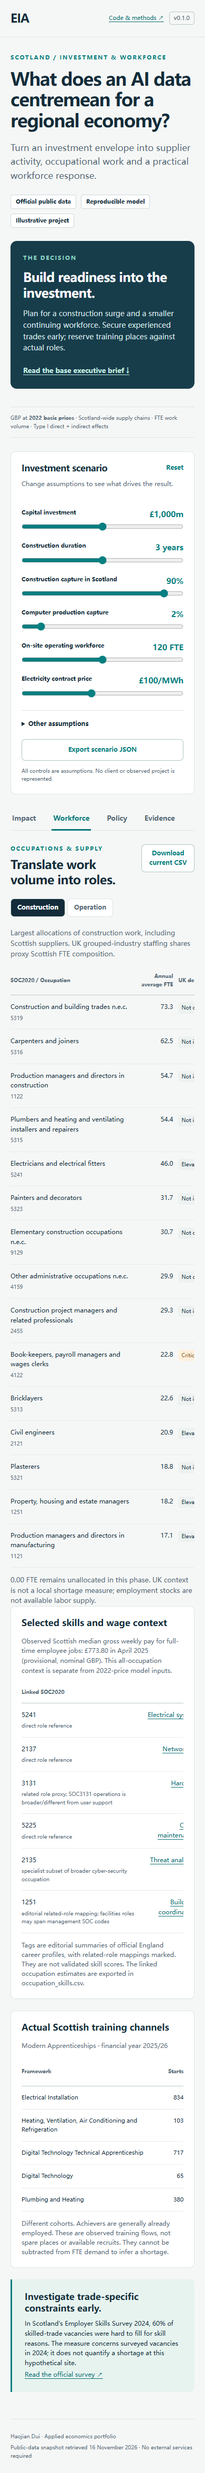
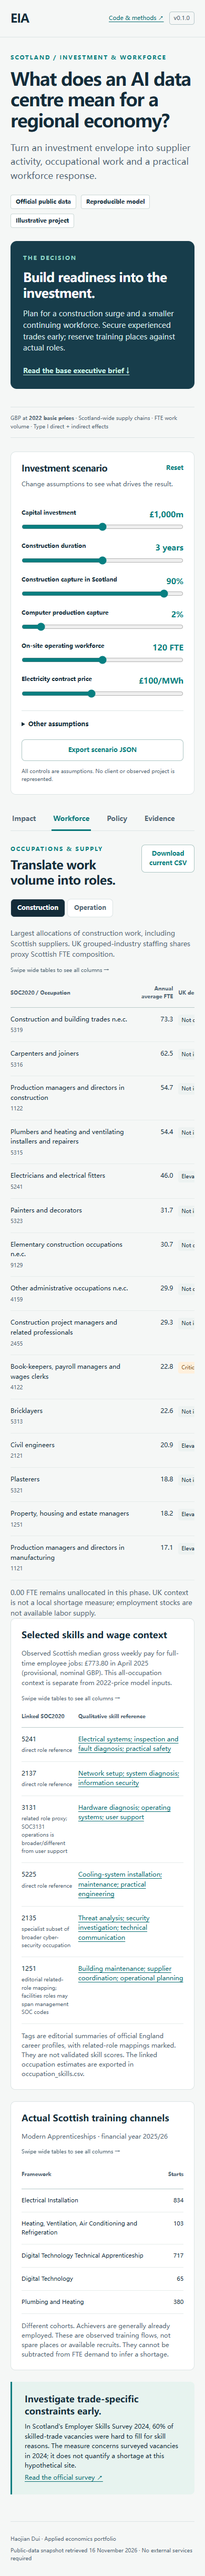
Improve mobile heading spacing and table readability

Changed region(s): [[0.0308, 0.0, 0.9538, 0.9628], [0.8308, 0.8385, 0.8923, 0.9007], [0.8, 0.4969, 0.8308, 0.528]]

diff --git a/site/index.html b/site/index.html
@@ -4,7 +4,7 @@
 <a class="skip" href="#main">Skip to assessment</a>
 <header><a class="brand" href="#">EIA<span>Economic Impact Assessment</span></a><div class="header-links"><a href="https://github.com/JoeDHJ/economic-impact-assessment">Code & methods ↗</a><span class="version">v0.1.0</span></div></header>
 <main id="main">
-<section class="hero"><div><p class="eyebrow">SCOTLAND / INVESTMENT & WORKFORCE</p><h1>What does an AI data centre<br>mean for a regional economy?</h1><p class="intro">Turn an investment envelope into supplier activity, occupational work and a practical workforce response.</p><div class="badges"><span>Official public data</span><span>Reproducible model</span><span>Illustrative project</span></div></div><aside class="hero-note"><p class="eyebrow">THE DECISION</p><h2>Build readiness into the investment.</h2><p>Plan for a construction surge and a smaller continuing workforce. Secure experienced trades early; reserve training places against actual roles.</p><a href="reports/executive-brief.md" download>Read the base executive brief ↓</a></aside></section>
+<section class="hero"><div><p class="eyebrow">SCOTLAND / INVESTMENT & WORKFORCE</p><h1>What does an AI data centre <br>mean for a regional economy?</h1><p class="intro">Turn an investment envelope into supplier activity, occupational work and a practical workforce response.</p><div class="badges"><span>Official public data</span><span>Reproducible model</span><span>Illustrative project</span></div></div><aside class="hero-note"><p class="eyebrow">THE DECISION</p><h2>Build readiness into the investment.</h2><p>Plan for a construction surge and a smaller continuing workforce. Secure experienced trades early; reserve training places against actual roles.</p><a href="reports/executive-brief.md" download>Read the base executive brief ↓</a></aside></section>
 <div class="context">GBP at <strong>2022 basic prices</strong> · Scotland-wide supply chains · FTE work volume · Type I direct + indirect effects</div>
 <div class="layout"><aside class="controls"><div class="control-head"><h2>Investment scenario</h2><button id="reset" class="text-button">Reset</button></div><p>Change assumptions to see what drives the result.</p>
 <label for="capital">Capital investment <output id="capital-value"></output></label><input id="capital" type="range" min="0" max="2000" step="50" value="1000">
@@ -21,7 +21,7 @@
 <article class="panel"><div class="panel-heading"><h3>Employment over the delivery schedule</h3><span>Annual FTE · even construction spend</span></div><div id="timeline"></div><p class="chart-note">Job-years measure cumulative work. They do not count unique people. Operating years begin after construction; the annual workforce is not added to build job-years.</p></article>
 <div class="two-panels"><article class="panel"><h3>Construction activity</h3><div id="effects"></div><p class="chart-note">Direct + indirect totals already include direct effects. GVA is a component of output.</p></article><article class="panel"><h3>Where construction work lands</h3><div id="industries"></div><p class="chart-note">FTE job-years by Scottish industry. Whole-region effects do not locate work around one site.</p></article></div>
 <article class="callout"><h3>A gross activity model is one part of an appraisal.</h3><p>The estimates do not deduct displacement, opportunity cost or resource constraints. Net welfare, tax return, water, grid and carbon effects need a separate assessment. Household-induced effects are excluded.</p></article><div class="actions"><button id="export-brief">Download current brief</button><a href="reports/economic-impact-report.md" download>Full base-case report ↓</a></div></section>
-<section id="workforce" class="view" aria-labelledby="tab-workforce" hidden><div class="section-title"><div><p class="eyebrow">OCCUPATIONS & SUPPLY</p><h2>Translate work volume into roles.</h2></div><button id="export-occupations" class="secondary">Download current CSV</button></div><div class="segmented"><button class="active" data-phase="construction">Construction</button><button data-phase="operation">Operation</button></div><p id="occupation-note"></p><div class="table-wrap"><table><caption class="sr-only">Largest occupational demand</caption><thead><tr><th>SOC2020 / Occupation</th><th id="occupation-unit">Annual average FTE</th><th>UK demand context, 2025</th></tr></thead><tbody id="occupations"></tbody></table></div><p class="chart-note" id="coverage"></p><article class="panel"><h3>Selected skills and wage context</h3><p id="wage-reference"></p><div class="table-wrap"><table><thead><tr><th>Linked SOC2020</th><th>Qualitative skill reference</th></tr></thead><tbody id="skill-references"></tbody></table></div><p class="chart-note">Tags are editorial summaries of official England career profiles, with related-role mappings marked. They are not validated skill scores. The linked occupation estimates are exported in occupation_skills.csv.</p></article><article class="panel"><h3>Actual Scottish training channels</h3><p>Modern Apprenticeships · financial year 2025/26</p><div class="table-wrap"><table><thead><tr><th>Framework</th><th>Starts</th><th>In training</th><th>Achievements</th></tr></thead><tbody id="supply"></tbody></table></div><p class="chart-note">Different cohorts. Achievers are generally already employed. These are observed training flows, not spare places or available recruits. They cannot be subtracted from FTE demand to infer a shortage.</p></article><article class="callout"><h3>Investigate trade-specific constraints early.</h3><p>In Scotland's Employer Skills Survey 2024, 60% of skilled-trade vacancies were hard to fill for skill reasons. The measure concerns surveyed vacancies in 2024; it does not quantify a shortage at this hypothetical site.</p><a href="https://www.gov.scot/publications/employer-skills-survey-2024-scotland/pages/skill-shortage-vacancies/">Read the official survey ↗</a></article></section>
+<section id="workforce" class="view" aria-labelledby="tab-workforce" hidden><div class="section-title"><div><p class="eyebrow">OCCUPATIONS & SUPPLY</p><h2>Translate work volume into roles.</h2></div><button id="export-occupations" class="secondary">Download current CSV</button></div><div class="segmented"><button class="active" data-phase="construction">Construction</button><button data-phase="operation">Operation</button></div><p id="occupation-note"></p><div class="table-wrap"><table><caption class="sr-only">Largest occupational demand</caption><thead><tr><th>SOC2020 / Occupation</th><th id="occupation-unit">Annual average FTE</th><th>UK demand context, 2025</th></tr></thead><tbody id="occupations"></tbody></table></div><p class="chart-note" id="coverage"></p><article class="panel"><h3>Selected skills and wage context</h3><p id="wage-reference"></p><div class="table-wrap"><table class="skills-table"><thead><tr><th>Linked SOC2020</th><th>Qualitative skill reference</th></tr></thead><tbody id="skill-references"></tbody></table></div><p class="chart-note">Tags are editorial summaries of official England career profiles, with related-role mappings marked. They are not validated skill scores. The linked occupation estimates are exported in occupation_skills.csv.</p></article><article class="panel"><h3>Actual Scottish training channels</h3><p>Modern Apprenticeships · financial year 2025/26</p><div class="table-wrap"><table><thead><tr><th>Framework</th><th>Starts</th><th>In training</th><th>Achievements</th></tr></thead><tbody id="supply"></tbody></table></div><p class="chart-note">Different cohorts. Achievers are generally already employed. These are observed training flows, not spare places or available recruits. They cannot be subtracted from FTE demand to infer a shortage.</p></article><article class="callout"><h3>Investigate trade-specific constraints early.</h3><p>In Scotland's Employer Skills Survey 2024, 60% of skilled-trade vacancies were hard to fill for skill reasons. The measure concerns surveyed vacancies in 2024; it does not quantify a shortage at this hypothetical site.</p><a href="https://www.gov.scot/publications/employer-skills-survey-2024-scotland/pages/skill-shortage-vacancies/">Read the official survey ↗</a></article></section>
 <section id="policy" class="view" aria-labelledby="tab-policy" hidden><div class="section-title"><div><p class="eyebrow">DELIVERY OPTIONS</p><h2>Match the response to the deadline.</h2></div></div><p>Independent option scenarios target on-site roles. Costs, seats and project match rates are assumptions; the electrical completion input uses the published achievement/leaver ratio.</p><div id="policies"></div><article class="callout"><h3>Reserve capacity before commissioning.</h3><p>Confirm eligible workers, provider seats, competing projects and shift requirements. The options overlap in target roles and cannot be summed into a combined jobs claim. A training match is not a net additional job or a measured policy effect.</p></article><a href="https://github.com/JoeDHJ/economic-impact-assessment/blob/main/docs/policy-and-supply.md">Policy design and implementation gates ↗</a></section>
 <section id="evidence" class="view" aria-labelledby="tab-evidence" hidden><div class="section-title"><div><p class="eyebrow">DATA & METHODS</p><h2>Inspect the chain from source to decision.</h2></div></div><div class="evidence-grid"><article class="panel"><span class="tag">Official estimates</span><h3>Scottish input-output accounts</h3><p>2022 domestic industry-by-industry table, 98 industries; published December 2025. Rows supply, columns purchase. Imports are excluded from domestic coefficients.</p><a href="https://www.gov.scot/publications/input-output-latest/">Source tables ↗</a></article><article class="panel"><span class="tag">Transferred staffing proxy</span><h3>UK occupation × industry</h3><p>Skills England 2025: SOC2020 workers in 18 broad SIC groups. Shares proxy Scottish FTE composition. Detailed industry and local differences remain unresolved.</p><a href="https://explore-education-statistics.service.gov.uk/find-statistics/occupations-in-demand/2025/explore">Staffing source ↗</a></article><article class="panel"><span class="tag">Observed counts</span><h3>Scottish training and skills</h3><p>SDS 2025/26 framework starts, training and achievements; Scottish Employer Skills Survey 2024 recruitment constraints. Provider spare capacity is not observed.</p><a href="https://www.skillsdevelopmentscotland.co.uk/media/josfrdus/modern-apprenticeship-supplementary-tables-quarter-4-2025-26.xlsx">Administrative tables ↗</a></article><article class="panel"><span class="tag">Scenario inputs</span><h3>Investment and operating plan</h3><p>Budget, production capture, duration, power use, on-site jobs and policy costs are explicit assumptions. No future nominal budget is mixed into 2022 prices.</p><button id="export-scenario-2" class="text-button">Download complete inputs ↓</button></article></div><article class="panel"><h3>Validated accounting</h3><p id="validation"></p><p class="formula">x = (I − A)<sup>−1</sup> f &nbsp; · &nbsp; FTE = e′x</p><p>The official Leontief inverse is stored multiplied by 1,000. Direct FTE coefficients are recovered from employment effects divided by employment multipliers. A zero-output tobacco sector has zero transactions and zero coefficients.</p><p>Operating purchases generate supplier activity; 120 base on-site FTE are a separate staffing input. The centre's own output is never multiplied and then added again.</p></article><div class="actions"><a class="button" href="https://github.com/JoeDHJ/economic-impact-assessment#reproduce-the-case">Run independently ↗</a><a href="https://github.com/JoeDHJ/economic-impact-assessment/blob/main/docs/employer-evidence.md">Employer requirements → artifacts ↗</a></div></section>
 </div></div>

diff --git a/src/impact_assessment/web/index.html b/src/impact_assessment/web/index.html
@@ -4,7 +4,7 @@
 <a class="skip" href="#main">Skip to assessment</a>
 <header><a class="brand" href="#">EIA<span>Economic Impact Assessment</span></a><div class="header-links"><a href="https://github.com/JoeDHJ/economic-impact-assessment">Code & methods ↗</a><span class="version">v0.1.0</span></div></header>
 <main id="main">
-<section class="hero"><div><p class="eyebrow">SCOTLAND / INVESTMENT & WORKFORCE</p><h1>What does an AI data centre<br>mean for a regional economy?</h1><p class="intro">Turn an investment envelope into supplier activity, occupational work and a practical workforce response.</p><div class="badges"><span>Official public data</span><span>Reproducible model</span><span>Illustrative project</span></div></div><aside class="hero-note"><p class="eyebrow">THE DECISION</p><h2>Build readiness into the investment.</h2><p>Plan for a construction surge and a smaller continuing workforce. Secure experienced trades early; reserve training places against actual roles.</p><a href="reports/executive-brief.md" download>Read the base executive brief ↓</a></aside></section>
+<section class="hero"><div><p class="eyebrow">SCOTLAND / INVESTMENT & WORKFORCE</p><h1>What does an AI data centre <br>mean for a regional economy?</h1><p class="intro">Turn an investment envelope into supplier activity, occupational work and a practical workforce response.</p><div class="badges"><span>Official public data</span><span>Reproducible model</span><span>Illustrative project</span></div></div><aside class="hero-note"><p class="eyebrow">THE DECISION</p><h2>Build readiness into the investment.</h2><p>Plan for a construction surge and a smaller continuing workforce. Secure experienced trades early; reserve training places against actual roles.</p><a href="reports/executive-brief.md" download>Read the base executive brief ↓</a></aside></section>
 <div class="context">GBP at <strong>2022 basic prices</strong> · Scotland-wide supply chains · FTE work volume · Type I direct + indirect effects</div>
 <div class="layout"><aside class="controls"><div class="control-head"><h2>Investment scenario</h2><button id="reset" class="text-button">Reset</button></div><p>Change assumptions to see what drives the result.</p>
 <label for="capital">Capital investment <output id="capital-value"></output></label><input id="capital" type="range" min="0" max="2000" step="50" value="1000">
@@ -21,7 +21,7 @@
 <article class="panel"><div class="panel-heading"><h3>Employment over the delivery schedule</h3><span>Annual FTE · even construction spend</span></div><div id="timeline"></div><p class="chart-note">Job-years measure cumulative work. They do not count unique people. Operating years begin after construction; the annual workforce is not added to build job-years.</p></article>
 <div class="two-panels"><article class="panel"><h3>Construction activity</h3><div id="effects"></div><p class="chart-note">Direct + indirect totals already include direct effects. GVA is a component of output.</p></article><article class="panel"><h3>Where construction work lands</h3><div id="industries"></div><p class="chart-note">FTE job-years by Scottish industry. Whole-region effects do not locate work around one site.</p></article></div>
 <article class="callout"><h3>A gross activity model is one part of an appraisal.</h3><p>The estimates do not deduct displacement, opportunity cost or resource constraints. Net welfare, tax return, water, grid and carbon effects need a separate assessment. Household-induced effects are excluded.</p></article><div class="actions"><button id="export-brief">Download current brief</button><a href="reports/economic-impact-report.md" download>Full base-case report ↓</a></div></section>
-<section id="workforce" class="view" aria-labelledby="tab-workforce" hidden><div class="section-title"><div><p class="eyebrow">OCCUPATIONS & SUPPLY</p><h2>Translate work volume into roles.</h2></div><button id="export-occupations" class="secondary">Download current CSV</button></div><div class="segmented"><button class="active" data-phase="construction">Construction</button><button data-phase="operation">Operation</button></div><p id="occupation-note"></p><div class="table-wrap"><table><caption class="sr-only">Largest occupational demand</caption><thead><tr><th>SOC2020 / Occupation</th><th id="occupation-unit">Annual average FTE</th><th>UK demand context, 2025</th></tr></thead><tbody id="occupations"></tbody></table></div><p class="chart-note" id="coverage"></p><article class="panel"><h3>Selected skills and wage context</h3><p id="wage-reference"></p><div class="table-wrap"><table><thead><tr><th>Linked SOC2020</th><th>Qualitative skill reference</th></tr></thead><tbody id="skill-references"></tbody></table></div><p class="chart-note">Tags are editorial summaries of official England career profiles, with related-role mappings marked. They are not validated skill scores. The linked occupation estimates are exported in occupation_skills.csv.</p></article><article class="panel"><h3>Actual Scottish training channels</h3><p>Modern Apprenticeships · financial year 2025/26</p><div class="table-wrap"><table><thead><tr><th>Framework</th><th>Starts</th><th>In training</th><th>Achievements</th></tr></thead><tbody id="supply"></tbody></table></div><p class="chart-note">Different cohorts. Achievers are generally already employed. These are observed training flows, not spare places or available recruits. They cannot be subtracted from FTE demand to infer a shortage.</p></article><article class="callout"><h3>Investigate trade-specific constraints early.</h3><p>In Scotland's Employer Skills Survey 2024, 60% of skilled-trade vacancies were hard to fill for skill reasons. The measure concerns surveyed vacancies in 2024; it does not quantify a shortage at this hypothetical site.</p><a href="https://www.gov.scot/publications/employer-skills-survey-2024-scotland/pages/skill-shortage-vacancies/">Read the official survey ↗</a></article></section>
+<section id="workforce" class="view" aria-labelledby="tab-workforce" hidden><div class="section-title"><div><p class="eyebrow">OCCUPATIONS & SUPPLY</p><h2>Translate work volume into roles.</h2></div><button id="export-occupations" class="secondary">Download current CSV</button></div><div class="segmented"><button class="active" data-phase="construction">Construction</button><button data-phase="operation">Operation</button></div><p id="occupation-note"></p><div class="table-wrap"><table><caption class="sr-only">Largest occupational demand</caption><thead><tr><th>SOC2020 / Occupation</th><th id="occupation-unit">Annual average FTE</th><th>UK demand context, 2025</th></tr></thead><tbody id="occupations"></tbody></table></div><p class="chart-note" id="coverage"></p><article class="panel"><h3>Selected skills and wage context</h3><p id="wage-reference"></p><div class="table-wrap"><table class="skills-table"><thead><tr><th>Linked SOC2020</th><th>Qualitative skill reference</th></tr></thead><tbody id="skill-references"></tbody></table></div><p class="chart-note">Tags are editorial summaries of official England career profiles, with related-role mappings marked. They are not validated skill scores. The linked occupation estimates are exported in occupation_skills.csv.</p></article><article class="panel"><h3>Actual Scottish training channels</h3><p>Modern Apprenticeships · financial year 2025/26</p><div class="table-wrap"><table><thead><tr><th>Framework</th><th>Starts</th><th>In training</th><th>Achievements</th></tr></thead><tbody id="supply"></tbody></table></div><p class="chart-note">Different cohorts. Achievers are generally already employed. These are observed training flows, not spare places or available recruits. They cannot be subtracted from FTE demand to infer a shortage.</p></article><article class="callout"><h3>Investigate trade-specific constraints early.</h3><p>In Scotland's Employer Skills Survey 2024, 60% of skilled-trade vacancies were hard to fill for skill reasons. The measure concerns surveyed vacancies in 2024; it does not quantify a shortage at this hypothetical site.</p><a href="https://www.gov.scot/publications/employer-skills-survey-2024-scotland/pages/skill-shortage-vacancies/">Read the official survey ↗</a></article></section>
 <section id="policy" class="view" aria-labelledby="tab-policy" hidden><div class="section-title"><div><p class="eyebrow">DELIVERY OPTIONS</p><h2>Match the response to the deadline.</h2></div></div><p>Independent option scenarios target on-site roles. Costs, seats and project match rates are assumptions; the electrical completion input uses the published achievement/leaver ratio.</p><div id="policies"></div><article class="callout"><h3>Reserve capacity before commissioning.</h3><p>Confirm eligible workers, provider seats, competing projects and shift requirements. The options overlap in target roles and cannot be summed into a combined jobs claim. A training match is not a net additional job or a measured policy effect.</p></article><a href="https://github.com/JoeDHJ/economic-impact-assessment/blob/main/docs/policy-and-supply.md">Policy design and implementation gates ↗</a></section>
 <section id="evidence" class="view" aria-labelledby="tab-evidence" hidden><div class="section-title"><div><p class="eyebrow">DATA & METHODS</p><h2>Inspect the chain from source to decision.</h2></div></div><div class="evidence-grid"><article class="panel"><span class="tag">Official estimates</span><h3>Scottish input-output accounts</h3><p>2022 domestic industry-by-industry table, 98 industries; published December 2025. Rows supply, columns purchase. Imports are excluded from domestic coefficients.</p><a href="https://www.gov.scot/publications/input-output-latest/">Source tables ↗</a></article><article class="panel"><span class="tag">Transferred staffing proxy</span><h3>UK occupation × industry</h3><p>Skills England 2025: SOC2020 workers in 18 broad SIC groups. Shares proxy Scottish FTE composition. Detailed industry and local differences remain unresolved.</p><a href="https://explore-education-statistics.service.gov.uk/find-statistics/occupations-in-demand/2025/explore">Staffing source ↗</a></article><article class="panel"><span class="tag">Observed counts</span><h3>Scottish training and skills</h3><p>SDS 2025/26 framework starts, training and achievements; Scottish Employer Skills Survey 2024 recruitment constraints. Provider spare capacity is not observed.</p><a href="https://www.skillsdevelopmentscotland.co.uk/media/josfrdus/modern-apprenticeship-supplementary-tables-quarter-4-2025-26.xlsx">Administrative tables ↗</a></article><article class="panel"><span class="tag">Scenario inputs</span><h3>Investment and operating plan</h3><p>Budget, production capture, duration, power use, on-site jobs and policy costs are explicit assumptions. No future nominal budget is mixed into 2022 prices.</p><button id="export-scenario-2" class="text-button">Download complete inputs ↓</button></article></div><article class="panel"><h3>Validated accounting</h3><p id="validation"></p><p class="formula">x = (I − A)<sup>−1</sup> f &nbsp; · &nbsp; FTE = e′x</p><p>The official Leontief inverse is stored multiplied by 1,000. Direct FTE coefficients are recovered from employment effects divided by employment multipliers. A zero-output tobacco sector has zero transactions and zero coefficients.</p><p>Operating purchases generate supplier activity; 120 base on-site FTE are a separate staffing input. The centre's own output is never multiplied and then added again.</p></article><div class="actions"><a class="button" href="https://github.com/JoeDHJ/economic-impact-assessment#reproduce-the-case">Run independently ↗</a><a href="https://github.com/JoeDHJ/economic-impact-assessment/blob/main/docs/employer-evidence.md">Employer requirements → artifacts ↗</a></div></section>
 </div></div>

diff --git a/site/style.css b/site/style.css
@@ -1,3 +1,5 @@
 :root{--ink:#142c39;--muted:#526774;--line:#dce4e5;--paper:#f5f7f6;--teal:#087f81;--blue:#315f83;--pale:#e7f3ef;--amber:#a26322}*{box-sizing:border-box}body{margin:0;background:var(--paper);color:var(--ink);font:15px/1.55 system-ui,-apple-system,"Segoe UI",sans-serif}a{color:#086d72;text-underline-offset:3px}button,input{font:inherit}button,a{touch-action:manipulation}button{cursor:pointer;border:1px solid var(--teal);background:var(--teal);color:white;border-radius:7px;padding:10px 16px;font-weight:650}button:hover{filter:brightness(.94)}button:focus-visible,a:focus-visible,input:focus-visible,summary:focus-visible{outline:3px solid #c17a2c;outline-offset:3px}header{max-width:1440px;margin:auto;padding:23px 40px;display:flex;align-items:center;justify-content:space-between;border-bottom:1px solid var(--line)}.brand{font-size:23px;font-weight:850;letter-spacing:-1px;text-decoration:none;color:var(--ink);display:flex;align-items:center;gap:16px}.brand span{font-size:13px;letter-spacing:.1px;font-weight:600;padding-left:16px;border-left:1px solid #b8c8cd}.header-links{display:flex;gap:20px;align-items:center;font-size:13px}.version{border:1px solid #b7c8ca;padding:3px 8px;border-radius:5px;color:var(--muted)}main{max-width:1440px;margin:auto;padding:0 40px}.hero{padding:48px 0 34px;display:grid;grid-template-columns:1.6fr 1fr;gap:64px}.eyebrow{font-size:11px;letter-spacing:1.8px;font-weight:750;color:var(--teal);margin:0 0 13px}h1{font-size:clamp(28px,3vw,43px);line-height:1.17;letter-spacing:-1.3px;margin:0 0 18px}h2{font-size:24px;line-height:1.25;letter-spacing:-.5px;margin:0 0 12px}h3{font-size:17px;line-height:1.35;margin:0 0 14px}.intro{color:var(--muted);font-size:17px;max-width:620px;margin:0}.badges{display:flex;gap:9px;flex-wrap:wrap;margin-top:23px}.badges span{font-size:11px;font-weight:650;border:1px solid #ccd9d7;background:white;padding:4px 9px;border-radius:4px}.hero-note{background:#173d4b;color:#fff;border-radius:12px;padding:27px 30px;align-self:start}.hero-note .eyebrow{color:#8ed2c4}.hero-note h2{font-size:24px;max-width:330px}.hero-note p:not(.eyebrow){font-size:14px;color:#d5e6e8;margin-bottom:19px}.hero-note a{color:#c5eee4;font-size:13px;font-weight:650}.context{padding:13px 0;border-top:1px solid var(--line);border-bottom:1px solid var(--line);color:var(--muted);font-size:12px}.layout{display:grid;grid-template-columns:276px minmax(0,1fr);gap:30px;padding-top:26px;align-items:start}.controls{background:#fff;border:1px solid var(--line);padding:22px;border-radius:10px;position:sticky;top:16px}.control-head{display:flex;justify-content:space-between;align-items:center;gap:8px}.control-head h2{font-size:17px;margin:0}.controls p{font-size:12px;color:var(--muted);margin:11px 0 20px}.text-button{border:0;background:none;color:var(--teal);padding:0;font-size:12px}.controls label{display:block;font-size:11px;font-weight:650;margin-top:22px}.controls output{display:block;color:var(--teal);font-size:18px;font-weight:750;margin:4px 0}.controls input{width:100%;accent-color:var(--teal);height:24px;cursor:pointer;margin:0}.controls details{font-size:12px;margin-top:20px;border-top:1px solid var(--line);padding-top:16px}.controls details p{margin:10px 0}.controls summary{font-weight:650;cursor:pointer}.controls small{display:block;color:var(--muted);font-size:10px;margin-top:12px}.controls .secondary{width:100%;font-size:12px;margin-top:20px}.secondary{background:#fff;color:var(--teal);font-size:12px;border-color:#adc6c4}.tabs{display:flex;border-bottom:1px solid var(--line);gap:25px;margin-bottom:26px}.tabs button{border:0;border-radius:0;padding:10px 3px 13px;background:none;color:var(--muted);font-size:13px;position:relative}.tabs button.active{color:var(--teal)}.tabs .active:after{content:"";position:absolute;height:3px;background:var(--teal);bottom:-1px;left:0;right:0}.section-title{display:flex;justify-content:space-between;align-items:center;gap:20px;margin-bottom:21px}.section-title .eyebrow{margin-bottom:8px}.section-title h2{margin:0;font-size:25px}.live{color:var(--teal);font-size:10px;white-space:nowrap}.metrics{display:grid;grid-template-columns:repeat(3,minmax(0,1fr));gap:13px;margin-bottom:23px}.metrics article{padding:20px 17px;border:1px solid var(--line);border-radius:8px;background:#fff;min-height:166px}.metrics span{font-size:11px;font-weight:650;color:var(--muted)}.metrics strong{display:block;font-size:35px;line-height:1.2;letter-spacing:-1px;margin:11px 0 7px}.metrics p{font-size:11px;margin:0 0 6px}.metrics small{font-size:10px;color:var(--muted)}.panel{background:#fff;border:1px solid var(--line);border-radius:9px;padding:23px;margin-bottom:22px}.panel-heading{display:flex;align-items:start;justify-content:space-between;gap:15px}.panel-heading span{font-size:10px;color:var(--muted)}.chart-note{font-size:11px;line-height:1.5;color:var(--muted);margin:14px 0 0}.two-panels{display:grid;grid-template-columns:1fr 1fr;gap:20px}.callout{border-left:3px solid var(--teal);background:var(--pale);padding:22px 24px;margin-bottom:25px;border-radius:0 8px 8px 0}.callout h3{margin-bottom:8px}.callout p,.callout a{font-size:12px;margin:0}.actions{display:flex;align-items:center;gap:25px;flex-wrap:wrap;margin:12px 0 30px}.actions a{font-size:12px;font-weight:650}.button{background:var(--teal);color:white;border-radius:7px;padding:11px 18px;text-decoration:none}.timeline{height:200px;display:flex;gap:8px;align-items:end;padding-top:25px;border-bottom:1px solid var(--line)}.time-col{flex:1;min-width:0;height:100%;display:flex;flex-direction:column;justify-content:end;align-items:center;position:relative}.time-bar{width:80%;max-width:48px;background:var(--teal);border-radius:4px 4px 0 0;min-height:1px;position:relative}.time-bar.build{background:var(--blue)}.time-bar span{font-size:10px;position:absolute;top:-21px;left:50%;transform:translateX(-50%);color:var(--ink)}.year-labels{display:flex;gap:8px}.year-labels span{flex:1;text-align:center;font-size:10px;color:var(--muted);padding-top:7px}.legend{display:flex;gap:20px;font-size:10px;margin-top:14px}.legend b{height:8px;width:8px;display:inline-block;margin-right:5px;background:var(--teal);border-radius:2px}.legend .build{background:var(--blue)}.effect-row{display:grid;grid-template-columns:1.3fr 1fr;gap:10px;border-bottom:1px solid #edf0ef;padding:10px 0;font-size:12px}.effect-row strong{text-align:right;font-size:15px}.effect-row small{display:block;color:var(--muted);font-size:10px}.industry-row{margin:13px 0}.bar-label{display:flex;justify-content:space-between;gap:15px;font-size:11px;margin-bottom:5px}.bar-track{height:6px;background:#edf2f1;border-radius:5px;overflow:hidden}.bar-track span{display:block;height:100%;background:var(--teal);border-radius:5px}.table-wrap{overflow-x:auto}table{width:100%;border-collapse:collapse;font-size:12px;text-align:left}th{font-size:10px;color:var(--muted);font-weight:700;border-bottom:1px solid #b8c9c9;padding:12px 10px 12px 0}td{padding:13px 10px 13px 0;border-bottom:1px solid #e6eceb;vertical-align:top}td:nth-child(2),th:nth-child(2){text-align:right}td:last-child{padding-right:0}.soc{font-size:10px;color:var(--muted);display:block;margin-top:4px}.demand{font-size:10px;white-space:nowrap;padding:3px 6px;background:#edf2f1;border-radius:4px;display:inline-block}.demand.critical{background:#fff0dc;color:#86521d}.segmented{display:flex;gap:4px;margin-bottom:20px}.segmented button{font-size:12px;background:#fff;color:var(--muted);border:1px solid var(--line);padding:7px 12px}.segmented .active{background:var(--ink);color:white}.view>p{font-size:13px;color:var(--muted)}#supply td{font-size:11px}.policy-card{padding:23px;border:1px solid var(--line);border-radius:9px;background:#fff;margin:20px 0}.policy-card .policy-head{display:flex;justify-content:space-between;gap:20px}.policy-card .policy-grid{display:grid;grid-template-columns:repeat(3,1fr);margin:15px 0 10px;gap:15px}.policy-grid strong{display:block;font-size:24px}.policy-grid span{font-size:10px;color:var(--muted)}.policy-card p{font-size:11px;color:var(--muted)}.tag{display:inline-block;background:#e8f2ef;color:#176862;padding:3px 7px;border-radius:4px;font-size:10px;font-weight:650}.tag.late{background:#fff0dc;color:#86521d}.evidence-grid{display:grid;grid-template-columns:1fr 1fr;gap:20px}.evidence-grid .panel{margin:0}.evidence-grid p,.panel>p{font-size:12px;color:var(--muted)}.evidence-grid a{font-size:11px}.evidence-grid h3{margin-top:14px}.evidence-grid{margin-bottom:22px}.formula{font-family:Georgia,serif;font-size:24px!important;background:#edf4f2;color:var(--ink)!important;padding:17px;border-radius:6px}footer{border-top:1px solid var(--line);padding:25px 0;margin-top:26px;display:flex;justify-content:space-between;gap:20px;font-size:10px;color:var(--muted)}[hidden]{display:none!important}.sr-only,.skip:not(:focus){position:absolute;width:1px;height:1px;overflow:hidden;clip:rect(0,0,0,0)}.skip:focus{position:fixed;top:10px;left:10px;background:white;padding:10px;z-index:5}
 @media(min-width:1500px){.hero{padding-top:55px}}@media(max-width:1050px){header{padding:20px 25px}main{padding:0 25px}.hero{gap:30px}.layout{grid-template-columns:240px minmax(0,1fr);gap:22px}.metrics{gap:8px}.metrics article{padding:17px 12px}.metrics strong{font-size:29px}.two-panels{grid-template-columns:1fr}.section-title h2{font-size:22px}.live{display:none}}@media(max-width:760px){header{padding:17px 20px}.brand span{display:none}.header-links{gap:10px;font-size:11px}main{padding:0 20px}.hero{grid-template-columns:1fr;padding-top:30px;gap:25px}.hero h1 br{display:none}h1{font-size:34px}.hero-note{padding:24px}.hero-note h2{max-width:none}.context{font-size:10px}.layout{grid-template-columns:1fr;gap:25px}.controls{position:static;padding:20px;display:grid;grid-template-columns:1fr 1fr;column-gap:24px}.control-head,.controls>p,.controls details,.controls .secondary,.controls>small{grid-column:1/-1}.controls label,.controls input{grid-column:1/-1}.controls label{margin-top:16px}.controls output{display:inline;font-size:15px;float:right;margin:0}.tabs{gap:27px}.section-title{align-items:start}.section-title h2{font-size:23px}.metrics{grid-template-columns:1fr}.metrics article{padding:17px 20px;min-height:120px}.metrics strong{font-size:33px}.metrics p{font-size:12px}.panel{padding:20px}.panel-heading{flex-direction:column;gap:0}.timeline{gap:4px;height:170px}.time-bar span{font-size:9px}.year-labels{gap:4px}.evidence-grid{grid-template-columns:1fr}.policy-card .policy-grid{grid-template-columns:1fr 1fr}.policy-card .policy-head{flex-direction:column;gap:0}.section-title .secondary{max-width:110px;padding:7px}.table-wrap table{min-width:460px}footer{flex-direction:column;gap:6px}}
 .workspace,.view{min-width:0}.table-wrap{max-width:100%}
+
+.skills-table th:first-child{width:35%}.skills-table td:nth-child(2),.skills-table th:nth-child(2){text-align:left}.skills-table td{overflow-wrap:anywhere}@media(max-width:760px){.table-wrap table.skills-table{min-width:0;table-layout:fixed}.table-wrap::before{content:"Swipe wide tables to see all columns →";display:block;font-size:10px;color:var(--muted);padding-bottom:7px;position:sticky;left:0}}

diff --git a/src/impact_assessment/web/style.css b/src/impact_assessment/web/style.css
@@ -1,3 +1,5 @@
 :root{--ink:#142c39;--muted:#526774;--line:#dce4e5;--paper:#f5f7f6;--teal:#087f81;--blue:#315f83;--pale:#e7f3ef;--amber:#a26322}*{box-sizing:border-box}body{margin:0;background:var(--paper);color:var(--ink);font:15px/1.55 system-ui,-apple-system,"Segoe UI",sans-serif}a{color:#086d72;text-underline-offset:3px}button,input{font:inherit}button,a{touch-action:manipulation}button{cursor:pointer;border:1px solid var(--teal);background:var(--teal);color:white;border-radius:7px;padding:10px 16px;font-weight:650}button:hover{filter:brightness(.94)}button:focus-visible,a:focus-visible,input:focus-visible,summary:focus-visible{outline:3px solid #c17a2c;outline-offset:3px}header{max-width:1440px;margin:auto;padding:23px 40px;display:flex;align-items:center;justify-content:space-between;border-bottom:1px solid var(--line)}.brand{font-size:23px;font-weight:850;letter-spacing:-1px;text-decoration:none;color:var(--ink);display:flex;align-items:center;gap:16px}.brand span{font-size:13px;letter-spacing:.1px;font-weight:600;padding-left:16px;border-left:1px solid #b8c8cd}.header-links{display:flex;gap:20px;align-items:center;font-size:13px}.version{border:1px solid #b7c8ca;padding:3px 8px;border-radius:5px;color:var(--muted)}main{max-width:1440px;margin:auto;padding:0 40px}.hero{padding:48px 0 34px;display:grid;grid-template-columns:1.6fr 1fr;gap:64px}.eyebrow{font-size:11px;letter-spacing:1.8px;font-weight:750;color:var(--teal);margin:0 0 13px}h1{font-size:clamp(28px,3vw,43px);line-height:1.17;letter-spacing:-1.3px;margin:0 0 18px}h2{font-size:24px;line-height:1.25;letter-spacing:-.5px;margin:0 0 12px}h3{font-size:17px;line-height:1.35;margin:0 0 14px}.intro{color:var(--muted);font-size:17px;max-width:620px;margin:0}.badges{display:flex;gap:9px;flex-wrap:wrap;margin-top:23px}.badges span{font-size:11px;font-weight:650;border:1px solid #ccd9d7;background:white;padding:4px 9px;border-radius:4px}.hero-note{background:#173d4b;color:#fff;border-radius:12px;padding:27px 30px;align-self:start}.hero-note .eyebrow{color:#8ed2c4}.hero-note h2{font-size:24px;max-width:330px}.hero-note p:not(.eyebrow){font-size:14px;color:#d5e6e8;margin-bottom:19px}.hero-note a{color:#c5eee4;font-size:13px;font-weight:650}.context{padding:13px 0;border-top:1px solid var(--line);border-bottom:1px solid var(--line);color:var(--muted);font-size:12px}.layout{display:grid;grid-template-columns:276px minmax(0,1fr);gap:30px;padding-top:26px;align-items:start}.controls{background:#fff;border:1px solid var(--line);padding:22px;border-radius:10px;position:sticky;top:16px}.control-head{display:flex;justify-content:space-between;align-items:center;gap:8px}.control-head h2{font-size:17px;margin:0}.controls p{font-size:12px;color:var(--muted);margin:11px 0 20px}.text-button{border:0;background:none;color:var(--teal);padding:0;font-size:12px}.controls label{display:block;font-size:11px;font-weight:650;margin-top:22px}.controls output{display:block;color:var(--teal);font-size:18px;font-weight:750;margin:4px 0}.controls input{width:100%;accent-color:var(--teal);height:24px;cursor:pointer;margin:0}.controls details{font-size:12px;margin-top:20px;border-top:1px solid var(--line);padding-top:16px}.controls details p{margin:10px 0}.controls summary{font-weight:650;cursor:pointer}.controls small{display:block;color:var(--muted);font-size:10px;margin-top:12px}.controls .secondary{width:100%;font-size:12px;margin-top:20px}.secondary{background:#fff;color:var(--teal);font-size:12px;border-color:#adc6c4}.tabs{display:flex;border-bottom:1px solid var(--line);gap:25px;margin-bottom:26px}.tabs button{border:0;border-radius:0;padding:10px 3px 13px;background:none;color:var(--muted);font-size:13px;position:relative}.tabs button.active{color:var(--teal)}.tabs .active:after{content:"";position:absolute;height:3px;background:var(--teal);bottom:-1px;left:0;right:0}.section-title{display:flex;justify-content:space-between;align-items:center;gap:20px;margin-bottom:21px}.section-title .eyebrow{margin-bottom:8px}.section-title h2{margin:0;font-size:25px}.live{color:var(--teal);font-size:10px;white-space:nowrap}.metrics{display:grid;grid-template-columns:repeat(3,minmax(0,1fr));gap:13px;margin-bottom:23px}.metrics article{padding:20px 17px;border:1px solid var(--line);border-radius:8px;background:#fff;min-height:166px}.metrics span{font-size:11px;font-weight:650;color:var(--muted)}.metrics strong{display:block;font-size:35px;line-height:1.2;letter-spacing:-1px;margin:11px 0 7px}.metrics p{font-size:11px;margin:0 0 6px}.metrics small{font-size:10px;color:var(--muted)}.panel{background:#fff;border:1px solid var(--line);border-radius:9px;padding:23px;margin-bottom:22px}.panel-heading{display:flex;align-items:start;justify-content:space-between;gap:15px}.panel-heading span{font-size:10px;color:var(--muted)}.chart-note{font-size:11px;line-height:1.5;color:var(--muted);margin:14px 0 0}.two-panels{display:grid;grid-template-columns:1fr 1fr;gap:20px}.callout{border-left:3px solid var(--teal);background:var(--pale);padding:22px 24px;margin-bottom:25px;border-radius:0 8px 8px 0}.callout h3{margin-bottom:8px}.callout p,.callout a{font-size:12px;margin:0}.actions{display:flex;align-items:center;gap:25px;flex-wrap:wrap;margin:12px 0 30px}.actions a{font-size:12px;font-weight:650}.button{background:var(--teal);color:white;border-radius:7px;padding:11px 18px;text-decoration:none}.timeline{height:200px;display:flex;gap:8px;align-items:end;padding-top:25px;border-bottom:1px solid var(--line)}.time-col{flex:1;min-width:0;height:100%;display:flex;flex-direction:column;justify-content:end;align-items:center;position:relative}.time-bar{width:80%;max-width:48px;background:var(--teal);border-radius:4px 4px 0 0;min-height:1px;position:relative}.time-bar.build{background:var(--blue)}.time-bar span{font-size:10px;position:absolute;top:-21px;left:50%;transform:translateX(-50%);color:var(--ink)}.year-labels{display:flex;gap:8px}.year-labels span{flex:1;text-align:center;font-size:10px;color:var(--muted);padding-top:7px}.legend{display:flex;gap:20px;font-size:10px;margin-top:14px}.legend b{height:8px;width:8px;display:inline-block;margin-right:5px;background:var(--teal);border-radius:2px}.legend .build{background:var(--blue)}.effect-row{display:grid;grid-template-columns:1.3fr 1fr;gap:10px;border-bottom:1px solid #edf0ef;padding:10px 0;font-size:12px}.effect-row strong{text-align:right;font-size:15px}.effect-row small{display:block;color:var(--muted);font-size:10px}.industry-row{margin:13px 0}.bar-label{display:flex;justify-content:space-between;gap:15px;font-size:11px;margin-bottom:5px}.bar-track{height:6px;background:#edf2f1;border-radius:5px;overflow:hidden}.bar-track span{display:block;height:100%;background:var(--teal);border-radius:5px}.table-wrap{overflow-x:auto}table{width:100%;border-collapse:collapse;font-size:12px;text-align:left}th{font-size:10px;color:var(--muted);font-weight:700;border-bottom:1px solid #b8c9c9;padding:12px 10px 12px 0}td{padding:13px 10px 13px 0;border-bottom:1px solid #e6eceb;vertical-align:top}td:nth-child(2),th:nth-child(2){text-align:right}td:last-child{padding-right:0}.soc{font-size:10px;color:var(--muted);display:block;margin-top:4px}.demand{font-size:10px;white-space:nowrap;padding:3px 6px;background:#edf2f1;border-radius:4px;display:inline-block}.demand.critical{background:#fff0dc;color:#86521d}.segmented{display:flex;gap:4px;margin-bottom:20px}.segmented button{font-size:12px;background:#fff;color:var(--muted);border:1px solid var(--line);padding:7px 12px}.segmented .active{background:var(--ink);color:white}.view>p{font-size:13px;color:var(--muted)}#supply td{font-size:11px}.policy-card{padding:23px;border:1px solid var(--line);border-radius:9px;background:#fff;margin:20px 0}.policy-card .policy-head{display:flex;justify-content:space-between;gap:20px}.policy-card .policy-grid{display:grid;grid-template-columns:repeat(3,1fr);margin:15px 0 10px;gap:15px}.policy-grid strong{display:block;font-size:24px}.policy-grid span{font-size:10px;color:var(--muted)}.policy-card p{font-size:11px;color:var(--muted)}.tag{display:inline-block;background:#e8f2ef;color:#176862;padding:3px 7px;border-radius:4px;font-size:10px;font-weight:650}.tag.late{background:#fff0dc;color:#86521d}.evidence-grid{display:grid;grid-template-columns:1fr 1fr;gap:20px}.evidence-grid .panel{margin:0}.evidence-grid p,.panel>p{font-size:12px;color:var(--muted)}.evidence-grid a{font-size:11px}.evidence-grid h3{margin-top:14px}.evidence-grid{margin-bottom:22px}.formula{font-family:Georgia,serif;font-size:24px!important;background:#edf4f2;color:var(--ink)!important;padding:17px;border-radius:6px}footer{border-top:1px solid var(--line);padding:25px 0;margin-top:26px;display:flex;justify-content:space-between;gap:20px;font-size:10px;color:var(--muted)}[hidden]{display:none!important}.sr-only,.skip:not(:focus){position:absolute;width:1px;height:1px;overflow:hidden;clip:rect(0,0,0,0)}.skip:focus{position:fixed;top:10px;left:10px;background:white;padding:10px;z-index:5}
 @media(min-width:1500px){.hero{padding-top:55px}}@media(max-width:1050px){header{padding:20px 25px}main{padding:0 25px}.hero{gap:30px}.layout{grid-template-columns:240px minmax(0,1fr);gap:22px}.metrics{gap:8px}.metrics article{padding:17px 12px}.metrics strong{font-size:29px}.two-panels{grid-template-columns:1fr}.section-title h2{font-size:22px}.live{display:none}}@media(max-width:760px){header{padding:17px 20px}.brand span{display:none}.header-links{gap:10px;font-size:11px}main{padding:0 20px}.hero{grid-template-columns:1fr;padding-top:30px;gap:25px}.hero h1 br{display:none}h1{font-size:34px}.hero-note{padding:24px}.hero-note h2{max-width:none}.context{font-size:10px}.layout{grid-template-columns:1fr;gap:25px}.controls{position:static;padding:20px;display:grid;grid-template-columns:1fr 1fr;column-gap:24px}.control-head,.controls>p,.controls details,.controls .secondary,.controls>small{grid-column:1/-1}.controls label,.controls input{grid-column:1/-1}.controls label{margin-top:16px}.controls output{display:inline;font-size:15px;float:right;margin:0}.tabs{gap:27px}.section-title{align-items:start}.section-title h2{font-size:23px}.metrics{grid-template-columns:1fr}.metrics article{padding:17px 20px;min-height:120px}.metrics strong{font-size:33px}.metrics p{font-size:12px}.panel{padding:20px}.panel-heading{flex-direction:column;gap:0}.timeline{gap:4px;height:170px}.time-bar span{font-size:9px}.year-labels{gap:4px}.evidence-grid{grid-template-columns:1fr}.policy-card .policy-grid{grid-template-columns:1fr 1fr}.policy-card .policy-head{flex-direction:column;gap:0}.section-title .secondary{max-width:110px;padding:7px}.table-wrap table{min-width:460px}footer{flex-direction:column;gap:6px}}
 .workspace,.view{min-width:0}.table-wrap{max-width:100%}
+
+.skills-table th:first-child{width:35%}.skills-table td:nth-child(2),.skills-table th:nth-child(2){text-align:left}.skills-table td{overflow-wrap:anywhere}@media(max-width:760px){.table-wrap table.skills-table{min-width:0;table-layout:fixed}.table-wrap::before{content:"Swipe wide tables to see all columns →";display:block;font-size:10px;color:var(--muted);padding-bottom:7px;position:sticky;left:0}}
